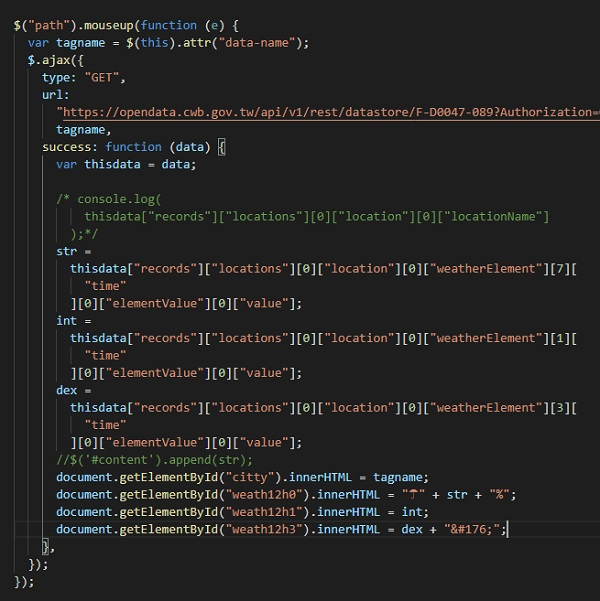
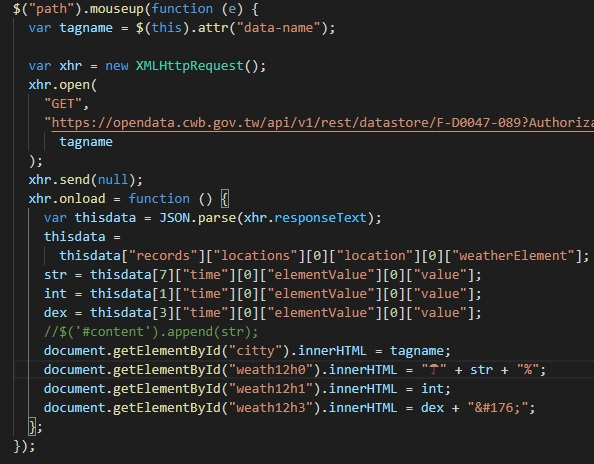
0621

Changed region(s): [[0.0, 0.0, 1.0, 0.9957], [0.3636, 0.3319, 0.9091, 0.3922]]

diff --git a/js/index.js b/js/index.js
@@ -1,33 +1,24 @@
 $("path").mouseup(function (e) {
   var tagname = $(this).attr("data-name");
-  $.ajax({
-    type: "GET",
-    url:
-      "https://opendata.cwb.gov.tw/api/v1/rest/datastore/F-D0047-089?Authorization=CWB-5FC93907-783A-4AC3-8BC1-70D286425F47&locationName=" +
-      tagname,
-    success: function (data) {
-      var thisdata = data;
 
-      /* console.log(
-          thisdata["records"]["locations"][0]["location"][0]["locationName"]
-        );*/
-      str =
-        thisdata["records"]["locations"][0]["location"][0]["weatherElement"][7][
-          "time"
-        ][0]["elementValue"][0]["value"];
-      int =
-        thisdata["records"]["locations"][0]["location"][0]["weatherElement"][1][
-          "time"
-        ][0]["elementValue"][0]["value"];
-      dex =
-        thisdata["records"]["locations"][0]["location"][0]["weatherElement"][3][
-          "time"
-        ][0]["elementValue"][0]["value"];
-      //$('#content').append(str);
-      document.getElementById("citty").innerHTML = tagname;
-      document.getElementById("weath12h0").innerHTML = "☂" + str + "%";
-      document.getElementById("weath12h1").innerHTML = int;
-      document.getElementById("weath12h3").innerHTML = dex + "&#176;";
-    },
-  });
+  var xhr = new XMLHttpRequest();
+  xhr.open(
+    "GET",
+    "https://opendata.cwb.gov.tw/api/v1/rest/datastore/F-D0047-089?Authorization=CWB-5FC93907-783A-4AC3-8BC1-70D286425F47&locationName=" +
+      tagname
+  );
+  xhr.send(null);
+  xhr.onload = function () {
+    var thisdata = JSON.parse(xhr.responseText);
+    thisdata =
+      thisdata["records"]["locations"][0]["location"][0]["weatherElement"];
+    str = thisdata[7]["time"][0]["elementValue"][0]["value"];
+    int = thisdata[1]["time"][0]["elementValue"][0]["value"];
+    dex = thisdata[3]["time"][0]["elementValue"][0]["value"];
+    //$('#content').append(str);
+    document.getElementById("citty").innerHTML = tagname;
+    document.getElementById("weath12h0").innerHTML = "☂" + str + "%";
+    document.getElementById("weath12h1").innerHTML = int;
+    document.getElementById("weath12h3").innerHTML = dex + "&#176;";
+  };
 });

diff --git a/js/kata.html b/js/kata.html
@@ -1,0 +1,25 @@
+<!DOCTYPE html>
+<html lang="en">
+  <head>
+    <meta charset="UTF-8" />
+    <meta name="viewport" content="width=device-width, initial-scale=1.0" />
+    <title>Document</title>
+  </head>
+  <body>
+    <script>
+      // $("path").mouseup(function (e) {
+      //   var tagname = $(this).attr("data-name");
+      // });
+      var xhr = new XMLHttpRequest();
+      xhr.open(
+        "GET",
+        "https://opendata.cwb.gov.tw/api/v1/rest/datastore/F-D0047-089?Authorization=CWB-5FC93907-783A-4AC3-8BC1-70D286425F47&locationName=臺南市",
+        true
+      );
+      xhr.send(null);
+      xhr.onload = function () {
+        var str = JSON.parse(xhr.responseText);
+      };
+    </script>
+  </body>
+</html>
